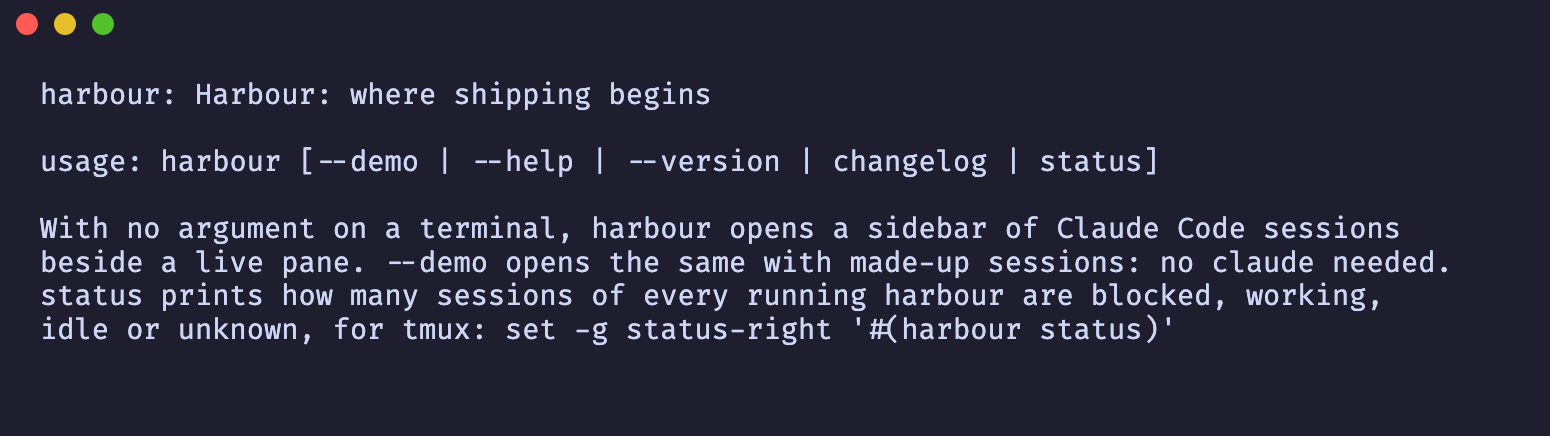
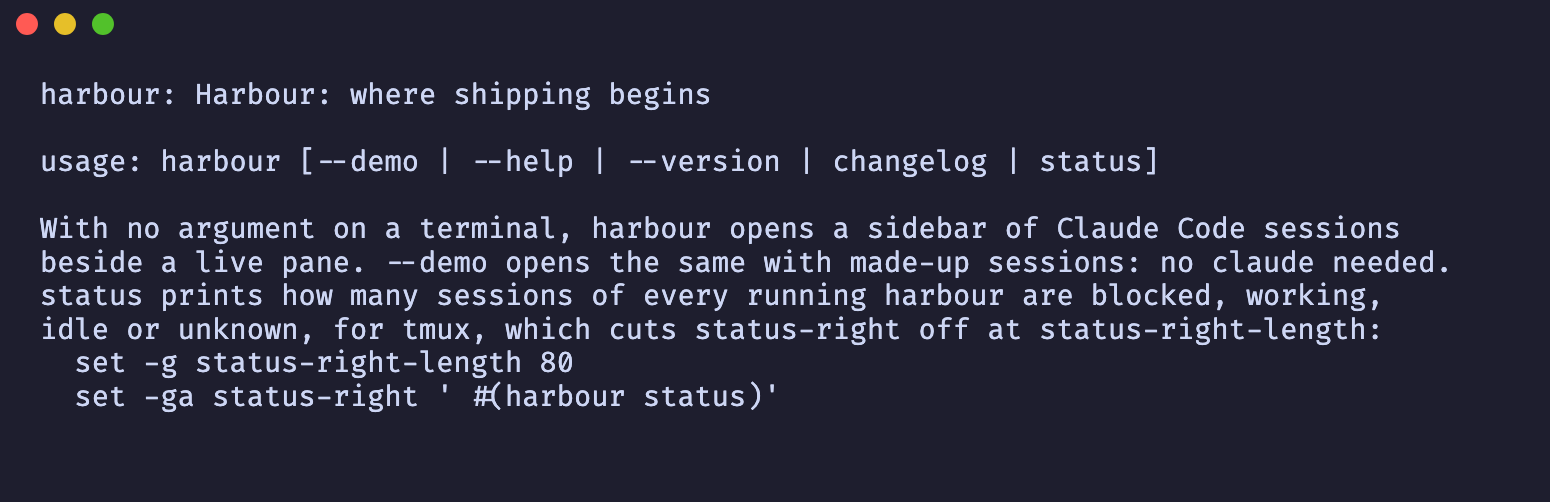
Append the counts to status-right, tighten the sweep and the reader (review round 3)

Changed region(s): [[0.0, 0.2982, 0.929, 0.8349], [0.031, 0.1491, 0.4645, 0.2385], [0.0, 0.0298, 0.0929, 0.0894]]

diff --git a/tests/status.rs b/tests/status.rs
@@ -1,4 +1,5 @@
 use std::fs::{self, File};
+use std::os::unix::fs::symlink;
 use std::path::{Path, PathBuf};
 use std::process::{Command, Output};
 
@@ -124,7 +125,7 @@ fn a_summary_that_cannot_be_read_is_left_out_of_the_sum() {
     let state = tempfile::tempdir().unwrap();
     let _harbour = running(state.path(), 202, "0 1 0 0");
     let _broken = running(state.path(), 101, "0 0 0 0");
-    let counts = summaries(state.path()).join("101.counts");
+    let counts = summaries(state.path()).join(format!("{}.counts", name(101)));
     fs::remove_file(&counts).unwrap();
     fs::create_dir(&counts).unwrap();
 
@@ -135,7 +136,7 @@ fn a_summary_that_cannot_be_read_is_left_out_of_the_sum() {
 fn a_summary_with_no_lock_beside_it_prints_nothing() {
     let state = tempfile::tempdir().unwrap();
     crashed(state.path(), 101, "1 1 3 0");
-    fs::remove_file(summaries(state.path()).join("101.lock")).unwrap();
+    fs::remove_file(summaries(state.path()).join(format!("{}.lock", name(101)))).unwrap();
 
     assert_eq!(stdout(&status(state.path())), "");
 }
@@ -144,7 +145,42 @@ fn a_summary_with_no_lock_beside_it_prints_nothing() {
 fn a_file_that_is_not_a_summary_is_ignored() {
     let state = tempfile::tempdir().unwrap();
     let _harbour = running(state.path(), 101, "0 1 0 0");
-    fs::write(summaries(state.path()).join("101.tmp"), "9 9 9 9").unwrap();
+    fs::write(
+        summaries(state.path()).join(format!("{}.tmp", name(101))),
+        "9 9 9 9",
+    )
+    .unwrap();
+
+    assert_eq!(stdout(&status(state.path())), "#[fg=yellow]● 1#[default]\n");
+}
+
+#[test]
+fn a_summary_not_named_like_a_publication_is_left_out_of_the_sum() {
+    let state = tempfile::tempdir().unwrap();
+    let _harbour = running(state.path(), 101, "0 1 0 0");
+    let dir = summaries(state.path());
+    fs::write(dir.join("acme.counts"), "1 0 0 0\n").unwrap();
+    let other = File::create(dir.join("acme.lock")).unwrap();
+    other.lock().unwrap();
+
+    assert_eq!(stdout(&status(state.path())), "#[fg=yellow]● 1#[default]\n");
+}
+
+#[test]
+fn a_symlink_to_a_live_summary_is_not_counted_again() {
+    let state = tempfile::tempdir().unwrap();
+    let _harbour = running(state.path(), 101, "0 1 0 0");
+    let dir = summaries(state.path());
+    symlink(
+        dir.join(format!("{}.counts", name(101))),
+        dir.join(format!("{}.counts", name(202))),
+    )
+    .unwrap();
+    symlink(
+        dir.join(format!("{}.lock", name(101))),
+        dir.join(format!("{}.lock", name(202))),
+    )
+    .unwrap();
 
     assert_eq!(stdout(&status(state.path())), "#[fg=yellow]● 1#[default]\n");
 }
@@ -230,6 +266,14 @@ fn running(state: &Path, pid: u32, counts: &str) -> File {
 fn crashed(state: &Path, pid: u32, counts: &str) -> File {
     let dir = summaries(state);
     fs::create_dir_all(&dir).unwrap();
-    fs::write(dir.join(format!("{pid}.counts")), format!("{counts}\n")).unwrap();
-    File::create(dir.join(format!("{pid}.lock"))).unwrap()
+    fs::write(
+        dir.join(format!("{}.counts", name(pid))),
+        format!("{counts}\n"),
+    )
+    .unwrap();
+    File::create(dir.join(format!("{}.lock", name(pid)))).unwrap()
+}
+
+fn name(pid: u32) -> String {
+    format!("{pid}-1700000000000000000-0")
 }

diff --git a/src/summary.rs b/src/summary.rs
@@ -34,6 +34,11 @@ pub fn total(dir: &Path) -> Counts {
         .flatten()
         .map(|entry| entry.path())
         .filter(|path| path.extension().is_some_and(|ext| ext == "counts"))
+        .filter(|path| {
+            path.file_stem()
+                .and_then(|stem| stem.to_str())
+                .is_some_and(published_name)
+        })
         .filter(|path| running(&path.with_extension("lock")))
         .filter_map(|path| read(&path))
         .fold(Counts::default(), Counts::plus)
@@ -72,7 +77,7 @@ fn read(path: &Path) -> Option<Counts> {
 }
 
 fn regular(path: &Path) -> bool {
-    fs::metadata(path).is_ok_and(|meta| meta.is_file())
+    fs::symlink_metadata(path).is_ok_and(|meta| meta.is_file())
 }
 
 pub struct Summary {
@@ -156,7 +161,7 @@ impl Publication {
             lock,
         };
         publication.lock.try_lock()?;
-        sweep(dir);
+        sweep(dir, &publication.name);
         Ok(publication)
     }
 
@@ -196,7 +201,7 @@ impl Drop for Publication {
     }
 }
 
-fn sweep(dir: &Path) {
+pub fn sweep(dir: &Path, own: &str) {
     let Ok(entries) = fs::read_dir(dir) else {
         return;
     };
@@ -206,14 +211,14 @@ fn sweep(dir: &Path) {
             .file_name()
             .and_then(|name| name.to_str())
             .and_then(|name| name.strip_suffix(".lock"))
-            .filter(|name| published_name(name))
+            .filter(|name| published_name(name) && *name != own)
         else {
             continue;
         };
         if !entry.file_type().is_ok_and(|kind| kind.is_file()) {
             continue;
         }
-        let Ok(lock) = File::open(&path) else {
+        let Ok(lock) = OpenOptions::new().write(true).open(&path) else {
             continue;
         };
         if lock.try_lock().is_err() {

diff --git a/tests/summary.rs b/tests/summary.rs
@@ -5,7 +5,7 @@ use std::process::Command;
 use std::time::Duration;
 
 use harbour::state::Counts;
-use harbour::summary::Summary;
+use harbour::summary::{Summary, sweep};
 
 #[test]
 fn publishing_writes_the_counts_blocked_working_idle_unknown() {
@@ -384,6 +384,35 @@ fn a_publication_whose_files_another_harbour_swept_is_made_again() {
     summary.publish(counts(1, 0, 0, 0));
 
     assert_eq!(status(scratch.path()), "#[fg=red]◉ 1#[default]\n");
+}
+
+#[test]
+fn a_sweep_never_removes_its_own_publication() {
+    let scratch = tempfile::tempdir().unwrap();
+    let dir = scratch.path().join("harbour/status");
+    fs::create_dir_all(&dir).unwrap();
+    fs::write(dir.join("101-1700000000000000000-0.lock"), "").unwrap();
+    fs::write(dir.join("101-1700000000000000000-0.counts"), "1 0 0 0\n").unwrap();
+
+    sweep(&dir, "101-1700000000000000000-0");
+
+    assert!(dir.join("101-1700000000000000000-0.lock").exists());
+    assert!(dir.join("101-1700000000000000000-0.counts").exists());
+}
+
+#[test]
+fn a_lock_that_cannot_be_opened_for_writing_is_never_removed() {
+    let scratch = tempfile::tempdir().unwrap();
+    let dir = scratch.path().join("harbour/status");
+    fs::create_dir_all(&dir).unwrap();
+    fs::write(dir.join("101-1700000000000000000-0.lock"), "").unwrap();
+    set_mode(&dir.join("101-1700000000000000000-0.lock"), 0o400);
+    fs::write(dir.join("101-1700000000000000000-0.counts"), "1 0 0 0\n").unwrap();
+    let mut summary = Summary::new(&dir);
+
+    summary.publish(counts(0, 1, 0, 0));
+
+    assert!(dir.join("101-1700000000000000000-0.counts").exists());
 }
 
 #[test]

diff --git a/src/main.rs b/src/main.rs
@@ -11,7 +11,9 @@ usage: harbour [--demo | --help | --version | changelog | status]
 With no argument on a terminal, harbour opens a sidebar of Claude Code sessions
 beside a live pane. --demo opens the same with made-up sessions: no claude needed.
 status prints how many sessions of every running harbour are blocked, working,
-idle or unknown, for tmux: set -g status-right '#(harbour status)'";
+idle or unknown, for tmux, which cuts status-right off at status-right-length:
+  set -g status-right-length 80
+  set -ga status-right ' #(harbour status)'";
 
 fn main() -> ExitCode {
     let args: Vec<_> = std::env::args_os().skip(1).collect();

diff --git a/tests/cli.rs b/tests/cli.rs
@@ -142,7 +142,9 @@ usage: harbour [--demo | --help | --version | changelog | status]
 With no argument on a terminal, harbour opens a sidebar of Claude Code sessions
 beside a live pane. --demo opens the same with made-up sessions: no claude needed.
 status prints how many sessions of every running harbour are blocked, working,
-idle or unknown, for tmux: set -g status-right '#(harbour status)'
+idle or unknown, for tmux, which cuts status-right off at status-right-length:
+  set -g status-right-length 80
+  set -ga status-right ' #(harbour status)'
 ";
 
 fn version_line() -> String {

diff --git a/plans/phase-5-tmux-status-line.md b/plans/phase-5-tmux-status-line.md
@@ -9,8 +9,9 @@ belong to no pane. Issue #8 asks for `harbour status`, which prints the counts o
 harbour's sessions as tmux status-line text, for `status-right`. Only counts, only harbour's own
 sessions.
 
-Phase 5 is a sweep phase, so its `## Outcome` opens with the sweep of phases 0 to 3. Phase 4
-(PR #14, the directory picker) is still open, so its hurdles are not on `main` and are not swept.
+Phase 5 is a sweep phase, so its `## Outcome` opens with the sweep of phases 0 to 4. Phase 4
+(PR #14, the directory picker) was open when this plan was written and is folded in since it
+shipped as v0.4.0.
 
 ## Verified facts (2026-11-20 UTC, `main` at 57065de)
 
@@ -129,7 +130,8 @@ followed by a newline; when nothing is counted, nothing at all is printed.
   while the counts stay the same, so a broken folder costs at most one attempt per 5 s.
 - **The status folder is private**: harbour sets `harbour/status` itself to `0700`, whether it
   created it or found it, and creates its files `0600`; it publishes nothing when that folder is
-  a symlink or not a directory. Folders above it keep the modes they have. An `XDG_STATE_HOME`
+  a symlink or not a directory. Folders above it that already exist keep their modes; missing
+  ones are created `0700`. An `XDG_STATE_HOME`
   that is empty or relative counts as unset, as the XDG spec says.
 - **`harbour status` takes no option** and always exits 0, so a status line never shows an
   error; the tmux line to add goes into `--help`.
@@ -153,8 +155,8 @@ One red-green-refactor cycle each, shipped with `scripts/ship.sh`.
 
 ### Sweep
 
-Range: phases 0 to 3, read from `scripts/sweep-report.sh` and each plan's `## Outcome` and
-`## Hurdles`. Phase 4 (PR #14) was still open, so its hurdles were not on `main`. This is the
+Range: phases 0 to 4, read from `scripts/sweep-report.sh` (`scripts/sweep-report.sh 4` for
+phase 4, merged after the first pass) and each plan's `## Outcome` and `## Hurdles`. This is the
 first sweep. The owner was away, so nothing below was applied: every line is a **proposal
 awaiting the owner's yes**, and no `AGENTS.md` changed.
 
@@ -167,12 +169,16 @@ awaiting the owner's yes**, and no `AGENTS.md` changed.
 | 5 | Review rounds found faults in the previous round's own fixes (phase 1, four of six rounds; phase 3, round 2 on round 1's width fix) | 1, 3 | Decline as a rule: "Two strikes, then redesign" already covers it and held in phase 3 | none |
 | 6 | One-off tooling dead ends with `→ none` (cargo-audit not installed locally, pty exhaustion when tests run beside the gates, a stale e2e binary in a shared `target/`, a `sed` that rewrote other tests, Codex capacity) | 1, 2, 3 | Decline: no two are the same problem | none |
 | 7 | A plan's task order broke because the dead-code rule pulls wiring forward | 3 | Decline: one occurrence; a plan names the caller of each new `pub` item in the same task | none |
+| 8 | Review rounds found states of the outside world the plan's state table never listed: a directory gone before or after launch and fzf's options left to the user's `FZF_DEFAULT_OPTS` (phase 4, three rounds in a row, then round 4), a lock held by another host and a folder that already existed (phase 5) | 4, 5 | Rule: a plan's state table lists, for each thing the change reads from outside harbour (a path, a user's environment or configuration, another process or host), what the user sees when it is missing, changed in between, or shared | root `AGENTS.md`, "Plan before code" |
+| 9 | End-to-end runs reached the user's real state (the binary on `PATH` opening the real fzf over the real zoxide database, `harbour-pick*` left in the real temporary directory) | 4 | Decline: each already became a rule in `tests/AGENTS.md` in phase 4 | none |
+| 10 | One-offs: `App` implements `Drop`, so no struct update syntax; macOS `/bin/sh` exits 1 when `exec` fails; a test file pushed over 700 lines and split | 4 | Decline: no two are the same problem, and the size limit did its job | none |
 
-Metrics (from `plans/metrics.md`): review rounds 6, 3, 3 for phases 1 to 3; start to release
-4 h 13 min, 44 min, 1 h 3 min; Claude reviewer tokens per round 86k to 140k (phase 1 115k to 140k, phase 2 86k to 127k, rising
-over its rounds, phase 3 115k to 125k), with no rise from phase to phase; builder
-notices per phase 12, 4, 4. Three comparable rows are too few to call a trend in tokens; rounds
-dropped from 6 to 3 and held. Codex and orchestrator usage remain unknown in every row.
+Metrics (from `plans/metrics.md`): review rounds 6, 3, 3, 5 for phases 1 to 4; start to release
+4 h 13 min, 44 min, 1 h 3 min, 2 h 1 min; Claude reviewer tokens per round 86k to 146k (phase 1
+115k to 140k, phase 2 86k to 127k, rising over its rounds, phase 3 115k to 125k, phase 4 120k to
+146k); builder notices per phase 12, 4, 4, 7. Rounds went back up from 3 to 5 in phase 4, and
+three of its five were the states finding 8 is about; four comparable rows are still too few to
+call a trend in tokens. Codex and orchestrator usage remain unknown in every row.
 
 ### Build
 
@@ -202,6 +208,11 @@ dropped from 6 to 3 and held. Codex and orchestrator usage remain unknown in eve
 - `main` was merged in after phase 4 shipped as v0.4.0 (conflicts in `src/tui.rs`, the e2e
   tests, both index files and `AGENTS.md`); a session started through the directory picker is
   published like any other, and a test says so.
+- Review round 3 (no must): the tmux advice replaced the user's `status-right`; it now appends
+  with `set -ga`, and raises `status-right-length` to 80, since at tmux's default of 40 the
+  appended counts were cut off entirely (seen in a scratch tmux server). The sweep opens each
+  lock for writing, as NFS needs for an exclusive lock, and skips the publication's own name; the
+  reader counts only harbour's own names and regular files, never a symlink.
 
 ## Hurdles
 
@@ -211,3 +222,4 @@ dropped from 6 to 3 and held. Codex and orchestrator usage remain unknown in eve
 - `review-loop` Round 1 found three failure states the table had not listed (a lock held by another host, a write failing after a success, a status folder that already existed or was a symlink) → code
 - `design` Round 2 found four more holes in the same recovery mechanism (re-locking an old handle under a pid name); per "Two strikes, then redesign" it was replaced by one publication per instance with a unique name, dropped on any failure and made again at most every 5 s → code
 - `design` The redesign's unique names left nothing to reuse a killed harbour's pair, so the folder grew without bound until the orchestrator caught it before round 3; a harbour now sweeps dead publications when it makes one → code
+- `review-loop` Round 3 found that the advised tmux line replaced the user's `status-right`; the suggested append was cut off by tmux's default `status-right-length`, which only rendering it in a scratch tmux server showed → code

diff --git a/AGENTS.md b/AGENTS.md
@@ -53,7 +53,7 @@ src/session.rs                a session: a command in a PTY, refused as `Not a d
 src/demo.rs                   the made-up sessions of `--demo` and its picker (fzf over made-up directories, without harbour's directory): `acme/*` scripts, never real data; the registry they write in the temp dir, removed when dropped
 src/registry.rs               Claude Code's session file for a pid (`<CLAUDE_CONFIG_DIR or ~/.claude>/sessions/<pid>.json`): its status and what it waits for, read leniently, ignored when written well before the session started
 src/state.rs                  a session's state from its exit and its file: the dot, the waiting reason, the title counts and the help legend, each fitted to the sidebar's width
-src/summary.rs                the counts a running harbour publishes for `harbour status` (one publication under a name of its own, pid, time and counter: `<name>.counts` beside a `<name>.lock` it holds, under `$XDG_STATE_HOME/harbour/status/`, else `~/.local/state/harbour/status/`, private, removed on quit, never waiting for a lock; a failed write or a missing file drops the whole publication, and a fresh one is made at most every `RETRY`, 5 s; making one removes every dead publication, a regular `<digits>-<digits>-<digits>.lock` no one holds, with its `.counts` and `.tmp`) and the reader that adds up those whose lock is still held
+src/summary.rs                the counts a running harbour publishes for `harbour status` (one publication under a name of its own, pid, time and counter: `<name>.counts` beside a `<name>.lock` it holds, under `$XDG_STATE_HOME/harbour/status/`, else `~/.local/state/harbour/status/`, private, removed on quit, never waiting for a lock; a failed write or a missing file drops the whole publication, and a fresh one is made at most every `RETRY`, 5 s; making one removes every dead publication, a regular `<digits>-<digits>-<digits>.lock` other than its own that it can open for writing and no one holds, with its `.counts` and `.tmp`) and the reader that adds up the regular `.counts` files of that naming whose lock is still held, never following a symlink
 src/help.rs                   what the help view shows: `KEYS`, which the README key table mirrors, and `NOTES` (C-Backspace arriving as C-h, the tmux pattern, `HARBOUR_DIR_PICKER`)
 src/keys.rs                   the bytes a terminal sends for a key (legacy encoding), which a session receives
 src/mouse.rs                  `route`, a pure function: a gesture belongs to where its button went down and to the session shown then, and ends when another session is shown, and the selected session gets only what its mouse mode asked for (`?9` presses, `?1000` presses, releases and the wheel, `?1002` drags too, `?1003` moves too), with Shift, Alt and Ctrl, in its encoding (SGR, UTF-8 or the legacy bytes), clamped to the pane; an empty pane forwards nothing and ends the gesture

diff --git a/changes/phase-5-tmux-status-line.md b/changes/phase-5-tmux-status-line.md
@@ -1,5 +1,6 @@
 kind: feat
 
 - `harbour status` prints how many sessions of every running harbour are blocked, working, idle
-  or unknown, as tmux status-line text: add `set -g status-right '#(harbour status)'` to your
-  tmux configuration. It prints nothing when no harbour runs a session.
+  or unknown, as tmux status-line text: add `set -g status-right-length 80` and
+  `set -ga status-right ' #(harbour status)'` to your tmux configuration, which keeps your
+  status-right and shows the counts after it. It prints nothing when no harbour runs a session.
